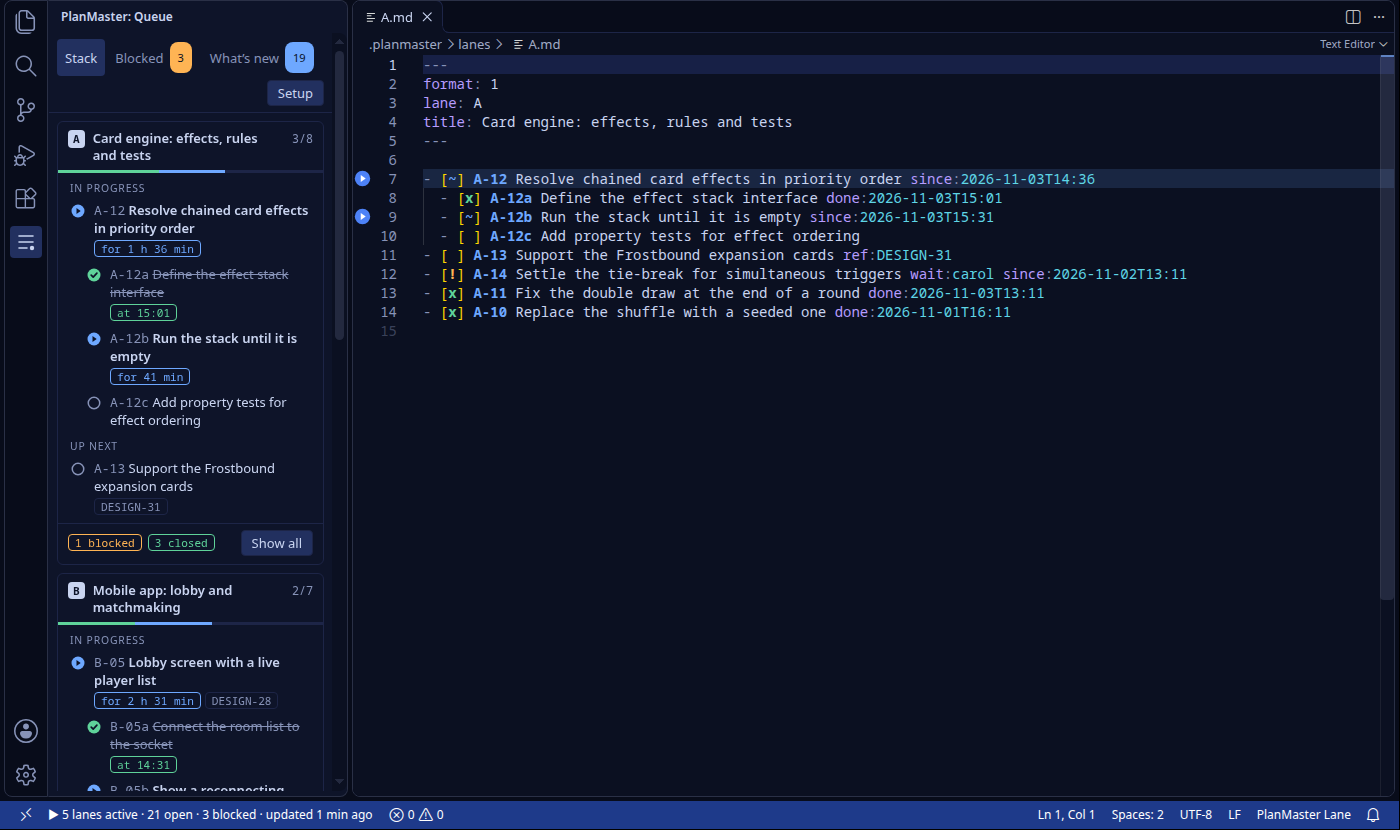
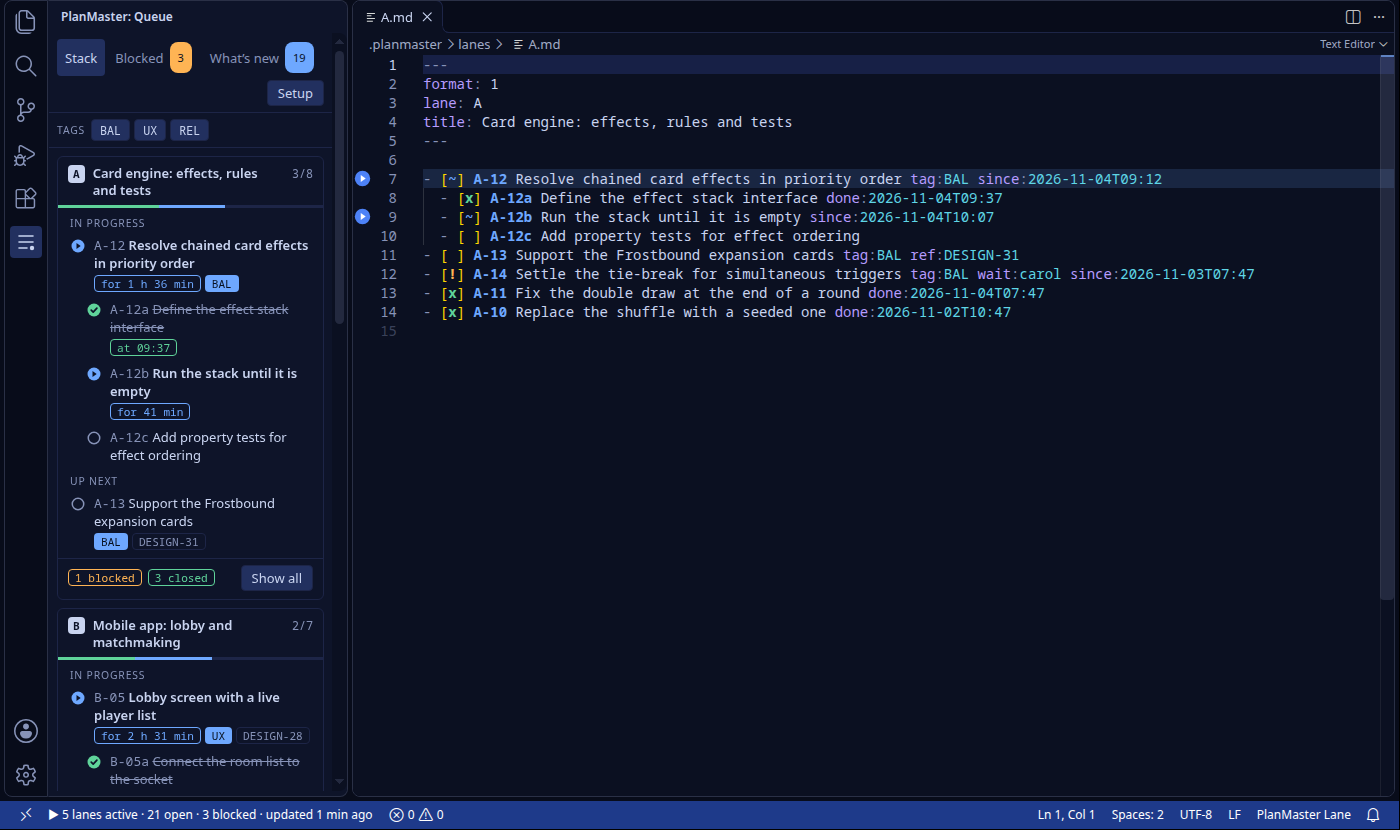
Show tags in the README and the screenshots

Changed region(s): [[0.0307, 0.1205, 0.2457, 0.9639], [0.6143, 0.3012, 0.8907, 0.3614], [0.645, 0.2108, 0.8293, 0.2711]]

diff --git a/README.md b/README.md
@@ -21,19 +21,25 @@ lane: B
 title: Mobile app: lobby and matchmaking
 ---
 
-- [~] B-05 Lobby screen with a live player list ref:DESIGN-28 since:2026-11-03T13:30
+- [~] B-05 Lobby screen with a live player list tag:UX ref:DESIGN-28 since:2026-11-03T13:30
   - [x] B-05a Connect the room list to the socket done:2026-11-03T14:20
   - [~] B-05b Show a reconnecting banner when the socket drops since:2026-11-03T15:50
-- [!] B-06 Invite links that open the app directly wait:carol since:2026-11-02T17:30
+- [!] B-06 Invite links that open the app directly tag:REL wait:carol since:2026-11-02T17:30
 ```
 
 `[ ]` is todo, `[~]` in progress, `[!]` blocked, `[x]` done and `[-]` dropped. Children are indented by two spaces. A blocked item says who it is waiting for with `wait:`, which takes a person from a list in `config.json` or the ID of another item. Timestamps are local time and come from the clock, never from the model's guess.
+
+Items can also carry tags, such as `tag:UX` or `tag:REL`, that classify them by topic across lanes. Each tag is declared once in `config.json` with a short label, as many as the work needs, and children inherit the tags of their parent.
 
 The extension only reads these files. It checks them against the format, draws them, and tells Claude how to write them. The files are committed with your project, so the history of the work lives in version control and no second store can drift out of sync.
 
 ## What you get
 
 The queue view has three tabs. Stack shows each lane with its item in progress, what is up next and how many items are blocked or closed. Blocked lists everything that is waiting, with the person or item and for how long. What's new lists what changed since you last pressed Mark Everything as Seen.
+
+When items carry tags, a row of tag buttons sits above the queue. Select one or more and every tab shows only the items that carry them, whatever lane they are in. The selection is remembered per project.
+
+![The queue view filtered by one tag](docs/screenshots/filtered-by-tag.png)
 
 In the editor, a lane file gets:
 
